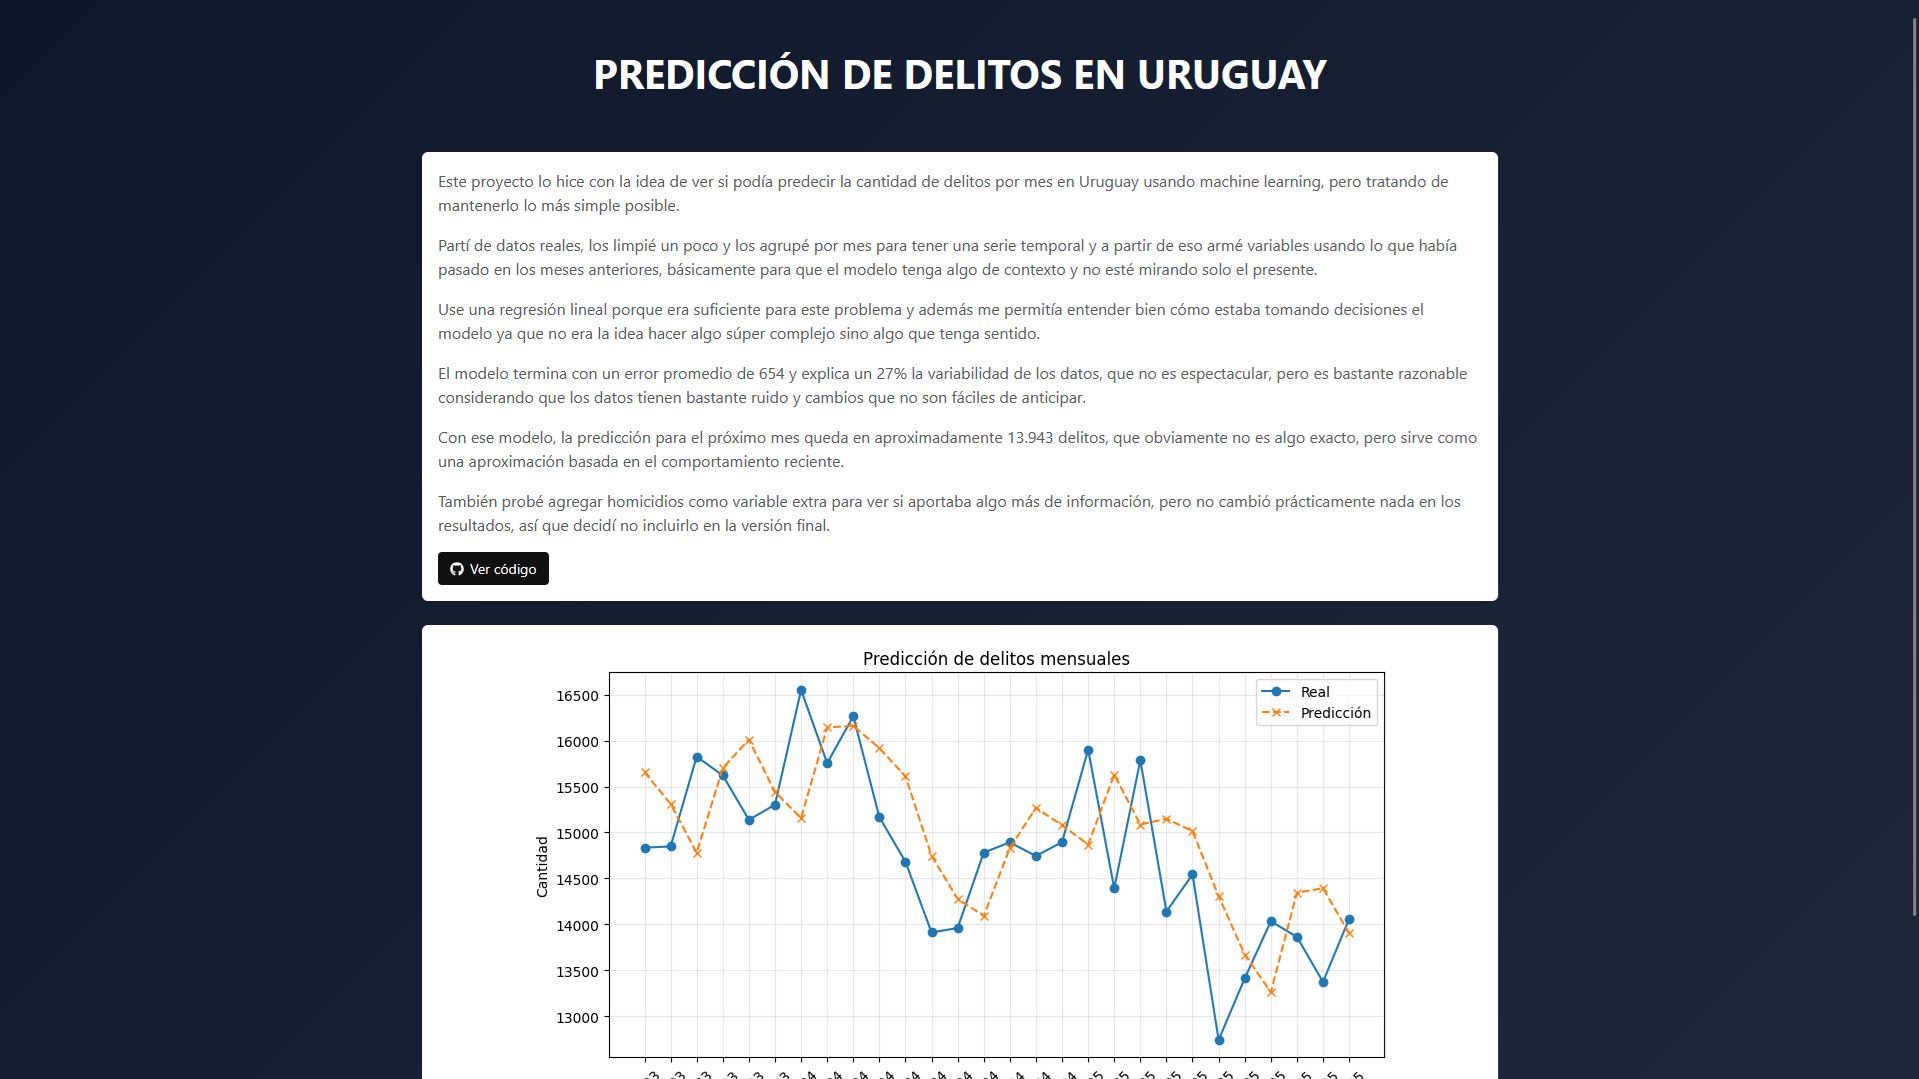
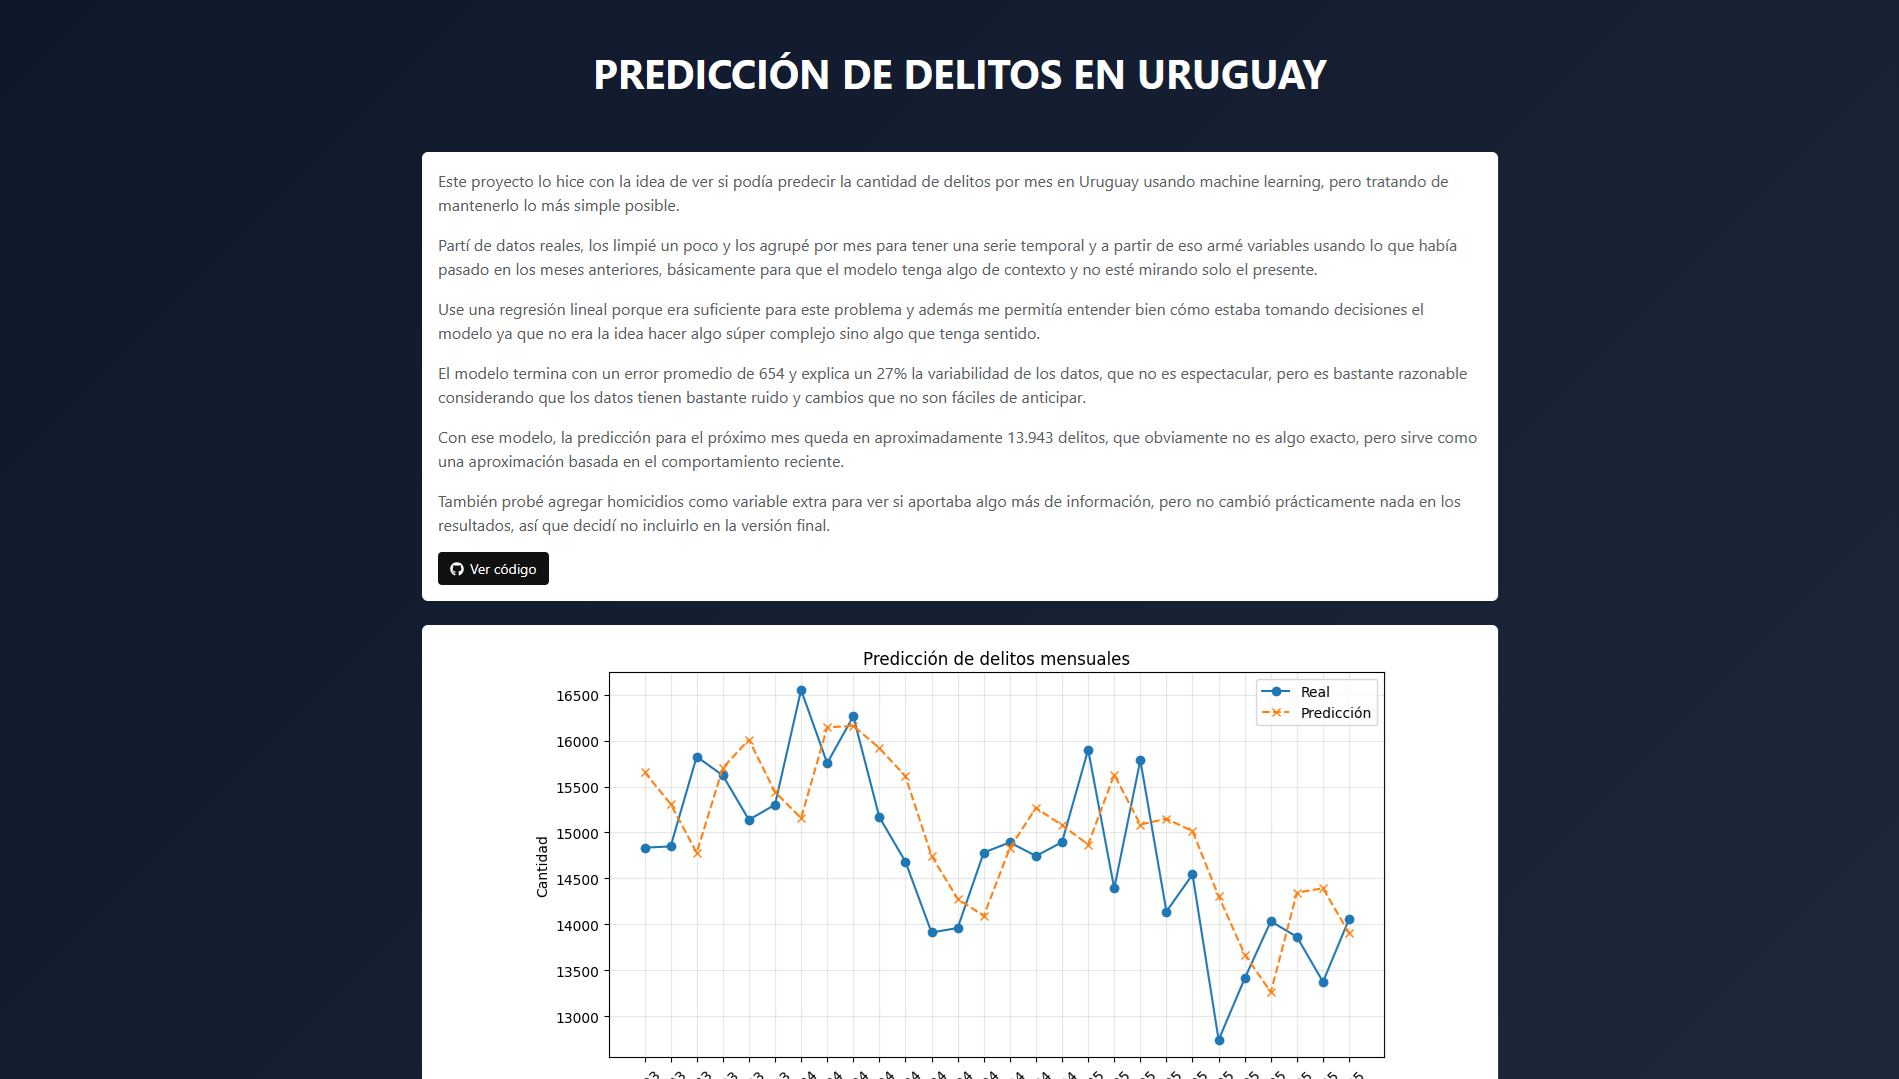
sd

diff --git a/src/App.css b/src/App.css
@@ -1,35 +1,116 @@
-/* Fondo general */
+/* Fondo */
 .app-bg {
   min-height: 100vh;
   background: linear-gradient(135deg, #0f172a, #1e293b);
 }
 
-/* Card */
-.project-card {
-  border: none;
-  border-radius: 12px;
-  overflow: hidden;
+/* Nombre */
+.name {
+  color: white;
+  letter-spacing: 2px;
+  padding-top: 20vh;
+  transition: color 0.5s ease;
 }
 
-/* Imagen */
-.img-container {
-  overflow: hidden;
+.name:hover {
+  color: #94a3b8;
 }
+/* Subtítulo */
+.subtitle {
+  color: #94a3b8;
+  padding-bottom: 5vh;
+}
+
+/* ========================= */
+/* TÍTULO PROYECTOS */
+/* ========================= */
+
+.projects-title {
+  position: relative;
+  display: inline-block;
+  color: white;
+  transition: color 0.5s ease;
+  margin-bottom: 8vh;
+}
+
+/* Línea */
+.projects-title::after {
+  content: "";
+  position: absolute;
+  left: 50%;
+  bottom: -4px;
+  width: 100%;
+  height: 2px;
+  background: white;
+  transform: translateX(-50%);
+  transition: width 0.5s ease;
+}
+
+/* Hover */
+.projects-title:hover::after {
+  width: 0;
+}
+
+.projects-title:hover {
+  color: #94a3b8;
+}
+
+/* ========================= */
+/* CARDS */
+/* ========================= */
+
+.project-card {
+  border-radius: 8px;
+  overflow: hidden;
+  background: white;
+  transition: background 0.5s ease;
+}
+
+.project-card:hover {
+  background: #94a3b8;
+}
+
+/* Texto cards */
+.project-card p {
+  color: #334155;
+}
+
+.project-card .card-title {
+  color: #0f172a;
+  font-weight: 600;
+}
+
+/* ========================= */
+/* IMÁGENES */
+/* ========================= */
 
 .img-container img {
   width: 100%;
-  height: 200px;
+  height: 220px;
   object-fit: cover;
   transition: transform 0.5s ease;
 }
 
-/* Hover zoom */
 .img-container:hover img {
-  transform: scale(1.1);
+  transform: scale(1.05);
 }
 
-/* Cuerpo de card */
-.project-card .card-body {
-  background: white;
-  color: #111;
+/* ========================= */
+/* ICONOS */
+/* ========================= */
+
+.icon-link {
+  color: white;
+  transition: 0.5s;
+}
+
+.icon-link:hover {
+  color: #94a3b8;
+}
+
+.text-end {
+  padding-top: 10vh;
+}
+.text-start {
+  padding-top: 10vh;
 }

diff --git a/src/App.jsx b/src/App.jsx
@@ -1,16 +1,23 @@
 import "bootstrap/dist/css/bootstrap.min.css";
-import { Container, Row, Col, Card } from "react-bootstrap";
+import { Container, Row, Col, Card, Button } from "react-bootstrap";
+import { FaGithub, FaLinkedin } from "react-icons/fa";
 import "./App.css";
 
 export default function App() {
   return (
     <div className="app-bg">
       <Container className="text-center text-white py-5">
-        <h1 className="fw-bold">JUAN FONSECA</h1>
-        <p className="text-decoration-underline">Estudiante de Ingeniería en Computación</p>
+        <Row className="mb-5 text-center hero">
+          <Col>
+            <h1 className="fw-bold name">JUAN FONSECA</h1>
+            <p className="subtitle">
+              Estudiante de Ingeniería en Computación
+            </p>
+          </Col>
+        </Row>
       </Container>
       <Container className="pb-5 px-4 px-md-5">
-        <h2 className="text-white mb-5">PROYECTOS</h2>
+        <h3 className="projects-title">PROYECTOS</h3>
         <Row className="g-4 mb-5">
           <Col md={6}>
             <Card className="project-card">
@@ -43,7 +50,7 @@ export default function App() {
             </Card>
           </Col>
         </Row>
-        <Row className="g-4">
+        <Row className="g-4 mb-5">
           <Col md={6}>
             <Card className="project-card">
               <a href="https://thriving-queijadas-7ed85d.netlify.app/" target="_blank" rel="noreferrer">
@@ -73,6 +80,33 @@ export default function App() {
                 </Card.Text>
               </Card.Body>
             </Card>
+          </Col>
+        </Row>
+        <Row className="mt-5 align-items-center">
+          <Col md={6} className="text-start">
+            <a href="/cv.pdf" download>
+              <Button variant="light">
+                Descargar CV
+              </Button>
+            </a>
+          </Col>
+          <Col md={6} className="text-end">
+            <a
+              href="https://github.com/juanfonseca09"
+              target="_blank"
+              rel="noreferrer"
+              className="icon-link"
+            >
+              <FaGithub size={28} />
+            </a>
+            <a
+              href="www.linkedin.com/in/jafv2022"
+              target="_blank"
+              rel="noreferrer"
+              className="icon-link ms-3"
+            >
+              <FaLinkedin size={28} />
+            </a>
           </Col>
         </Row>
       </Container>